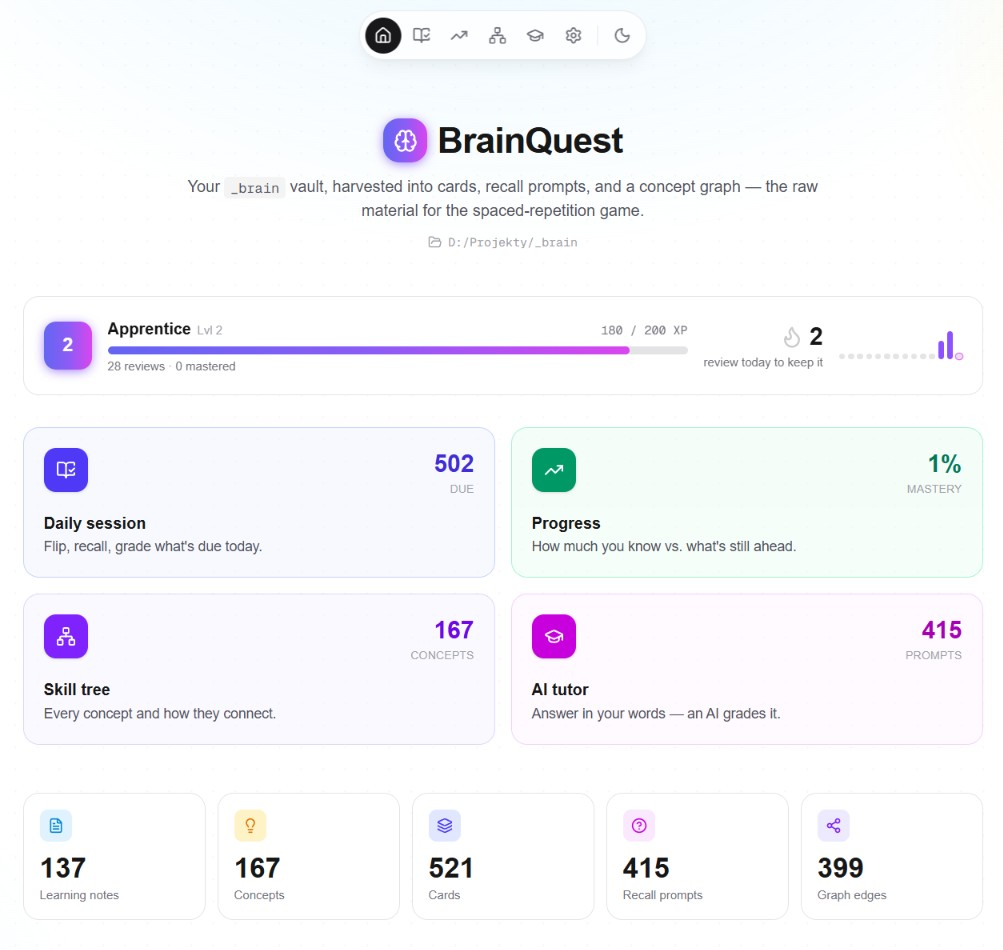
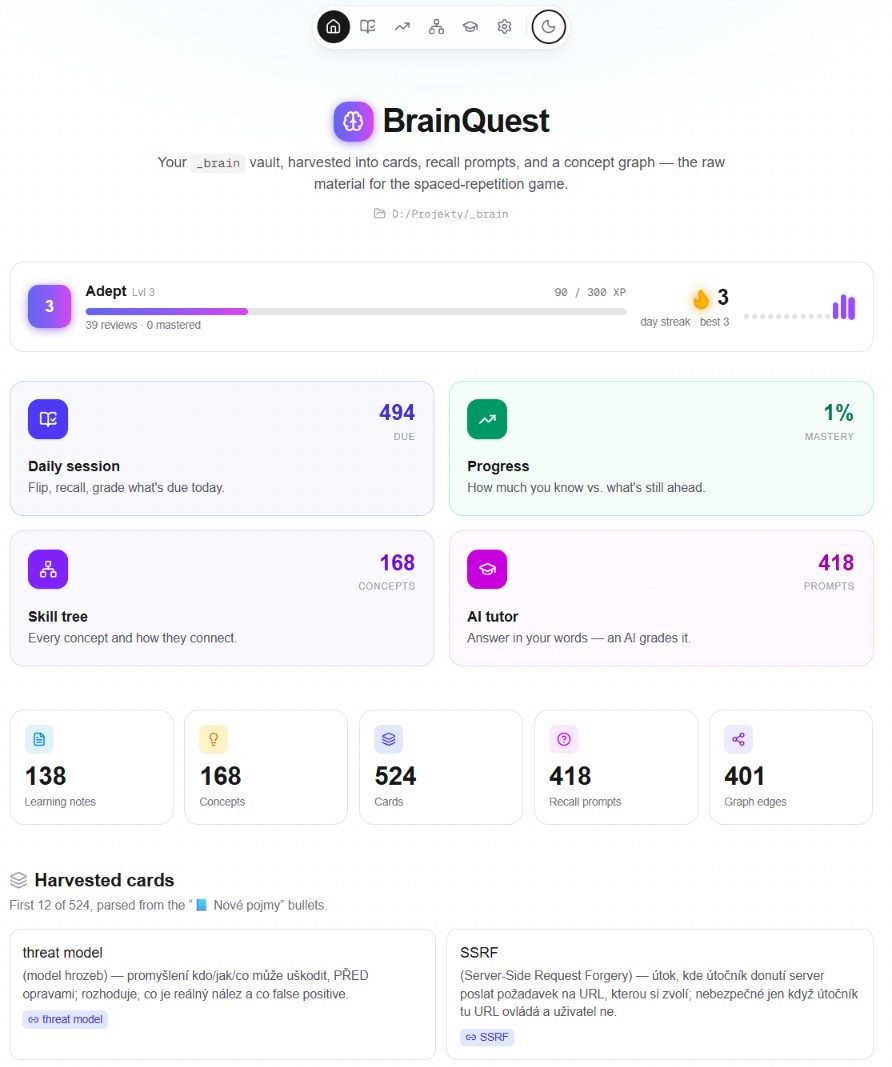
docs: refresh screenshots (English tutor labels, bolder card links)
Re-shot 7 of 8 screens after the i18n + UI changes. Update the daily-
session and tutor captions to the cards/questions now shown, and note the
English Recall→Analyze difficulty ladder and the "go deeper" block on
every card.

diff --git a/README.md b/README.md
@@ -23,8 +23,8 @@ and atomic concept notes into scheduled flashcards, recall prompts, and a visual
 | | |
 |---|---|
 | **Home** — vault harvested into cards, recall prompts, and a concept graph, with your level, XP, and streak. | ![Home](docs/screenshots/01-home.jpg) |
-| **Daily session** — flip a card, recall it, grade yourself (Again / Hard / Good / Easy); each card links out to the skill tree, an AI "Explain more", the full note, or the tutor. *(Card shown: "documentation drift" — its Czech gloss reads "docs drift away from the code over time; a quiet source of mistakes because they still look trustworthy.")* | ![Daily session](docs/screenshots/02-daily-session.jpg) |
-| **AI tutor** — answer a recall question in your own words; a local (or hosted) LLM grades it against your note and shows what you missed. The difficulty rungs are a recall → understand → apply → analyze ladder. *(Question shown: "Co je hydration mismatch?" = "What is a hydration mismatch?"; the grading feedback is in Czech.)* | ![AI tutor](docs/screenshots/03-ai-tutor.jpg) |
+| **Daily session** — flip a card, recall it, grade yourself (Again / Hard / Good / Easy); every card opens a "go deeper" block with a **Skill tree** jump and an on-demand AI **Explain more**, plus links to the full note and the tutor. *(Card shown: "strict mode / type safety", concept "TypeScript"; the Czech gloss + the expanded "Explain more" elaborate on it.)* | ![Daily session](docs/screenshots/02-daily-session.jpg) |
+| **AI tutor** — answer a recall question in your own words; a local (or hosted) LLM grades it against your note and shows what you missed. The difficulty rungs are a **Recall → Understand → Apply → Analyze** ladder. *(Question shown: "Co je oddělení designu od implementace?" = "What is separating design from implementation?"; the grading feedback is in Czech.)* | ![AI tutor](docs/screenshots/03-ai-tutor.jpg) |
 | **Progress** — overall mastery (mature / learning / new), plus every concept bucketed by how well you know it. | ![Progress](docs/screenshots/04-progress.jpg) |
 | **Progress by topic** — a per-note bar (% known · cards seen). *(The note titles are Czech — they're the author's learning notes, e.g. "F1 — FSRS plánovač opakování" = "F1 — the FSRS review scheduler".)* | ![Progress by topic](docs/screenshots/05-progress-by-topic.jpg) |
 | **Skill tree** — every concept as a node, clustered into colour-coded topics; hollow = locked, solid = reachable, and dots turn green as you master them. | ![Skill tree](docs/screenshots/06-skill-tree.jpg) |
